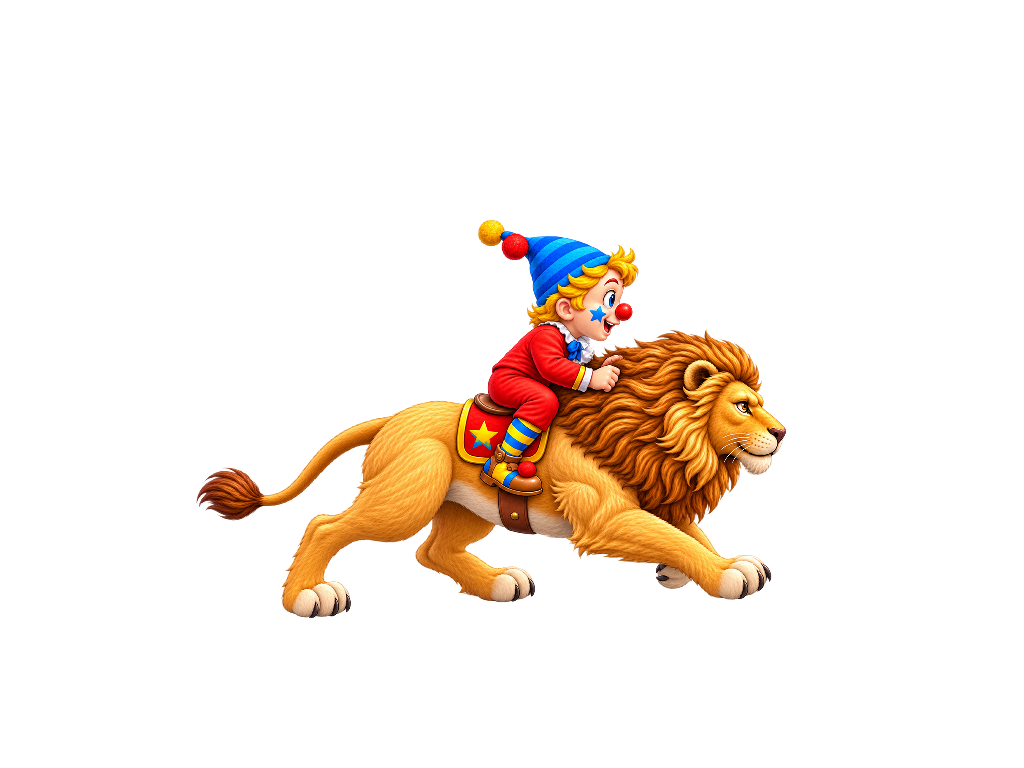
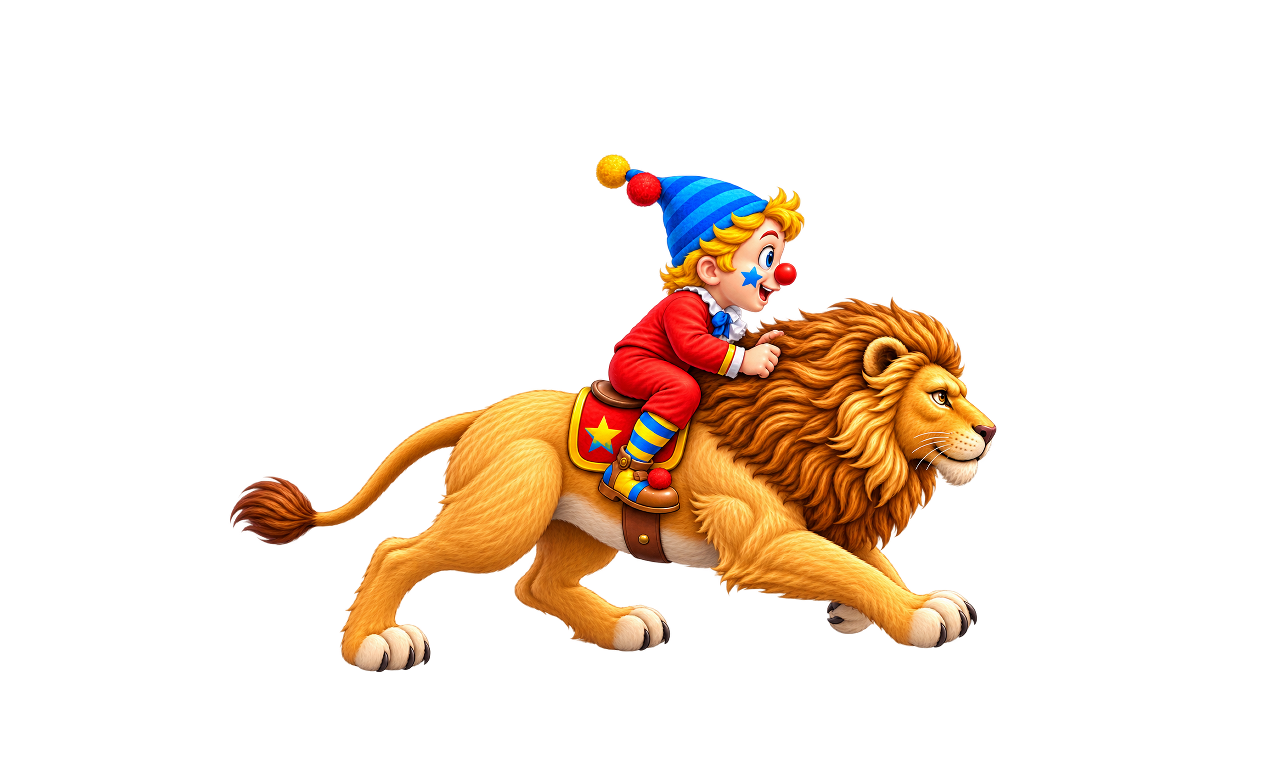
Enlarge Level 1 rider artwork by thirty percent

Changed region(s): [[0.1562, 0.1875, 0.7812, 0.875]]

diff --git a/tools/prepare_stage1_rider_production.py b/tools/prepare_stage1_rider_production.py
@@ -21,12 +21,12 @@ from PIL import Image, ImageDraw, ImageFilter
 ROOT = Path(__file__).resolve().parents[1]
 OUTPUT = ROOT / "assets"
 DIAGNOSTICS = ROOT / "docs/diagnostics/level1-rider-production"
-CANVAS = (1024, 768)
-GAMEPLAY_ANCHOR = (512, 640)
+CANVAS = (1280, 768)
+GAMEPLAY_ANCHOR = (640, 640)
 # Stable saddle/central-body point inside the production canvas. The runtime
 # samples every sprite at GAMEPLAY_ANCHOR; keeping this body point at a common
 # canvas location makes the body-to-gameplay-anchor vector identical in A/B/C.
-PRODUCTION_BODY_ANCHOR = (512, 438)
+PRODUCTION_BODY_ANCHOR = (640, 438)
 # Fixed LittleCMS sRGB profile bytes. Creating a fresh profile at runtime puts
 # the current time in its ICC header and makes otherwise identical PNG builds
 # hash differently.
@@ -49,7 +49,7 @@ POSES = {
         "source": ROOT / "run/run a 2.png",
[1 lines of base64/hex data omitted]
         "output": OUTPUT / "stage1-rider-run-a-hd.png",
-        "production_scale": 0.4220552832,
+        "production_scale": 0.54867186816,
         "rotation_degrees": 0.0,
         "source_anchor": (767.5, 582.5),
     },
@@ -57,7 +57,7 @@ POSES = {
         "source": ROOT / "run/Run b 2.png",
[1 lines of base64/hex data omitted]
         "output": OUTPUT / "stage1-rider-run-b-hd.png",
-        "production_scale": 0.4380942671,
+        "production_scale": 0.56952254723,
         "rotation_degrees": 0.0,
         "source_anchor": (777.5, 572.5),
     },
@@ -65,7 +65,7 @@ POSES = {
         "source": ROOT / "run/run c.png",
[1 lines of base64/hex data omitted]
         "output": OUTPUT / "stage1-rider-run-c-hd.png",
-        "production_scale": 0.4838703911,
+        "production_scale": 0.62903150843,
         "rotation_degrees": 0.0,
         "source_anchor": (850.0, 520.0),
     },
@@ -376,7 +376,7 @@ def main() -> int:
     OUTPUT.mkdir(parents=True, exist_ok=True)
     DIAGNOSTICS.mkdir(parents=True, exist_ok=True)
     raw_features, target_features, effective_scales = feature_measurements()
-    metadata = {"canvas": list(CANVAS), "gameplay_anchor": list(GAMEPLAY_ANCHOR), "production_body_anchor": list(PRODUCTION_BODY_ANCHOR), "body_to_gameplay_anchor_vector": [GAMEPLAY_ANCHOR[0] - PRODUCTION_BODY_ANCHOR[0], GAMEPLAY_ANCHOR[1] - PRODUCTION_BODY_ANCHOR[1]], "production_scale_rule": "approved independent offline identity-feature normalization; identical 1024x768 runtime rendering", "effective_source_to_canvas_scales": effective_scales, "alpha_representation": "straight/unassociated RGBA", "color_profile": "embedded sRGB ICC", "poses": {}}
+    metadata = {"canvas": list(CANVAS), "gameplay_anchor": list(GAMEPLAY_ANCHOR), "production_body_anchor": list(PRODUCTION_BODY_ANCHOR), "body_to_gameplay_anchor_vector": [GAMEPLAY_ANCHOR[0] - PRODUCTION_BODY_ANCHOR[0], GAMEPLAY_ANCHOR[1] - PRODUCTION_BODY_ANCHOR[1]], "production_scale_rule": "approved independent offline normalization multiplied by exactly 1.30; identical 1280x768 runtime canvas and pixel density", "effective_source_to_canvas_scales": effective_scales, "alpha_representation": "straight/unassociated RGBA", "color_profile": "embedded sRGB ICC", "poses": {}}
     prepared = {}
     for pose, specification in POSES.items():
         source = specification["source"]

diff --git a/src/main.cpp b/src/main.cpp
@@ -334,10 +334,17 @@ enum class Level1RiderState : std::uint8_t {
   RunC = 2,
 };
 
-// All accepted production poses use the same 1024x768 canvas and the same
+// All accepted production poses use the same 1280x768 canvas and the same
 // authoritative gameplay anchor. Airborne selects Run C without a distinct
 // image or anchor; only the ROM-derived jump trajectory moves it.
-constexpr std::array<float, 2> kLevel1RiderProductionAnchor{512.0F, 640.0F};
+constexpr std::array<float, 2> kLevel1RiderProductionCanvas{1280.0F, 768.0F};
+constexpr std::array<float, 2> kLevel1RiderProductionSourceAnchor{640.0F,
+                                                                  640.0F};
+// Keep the synchronized trace expressed in the established 1024-wide logical
+// production coordinate system. The larger canvas changes only transparent
+// source padding; its world-space anchor remains the same.
+constexpr std::array<float, 2> kLevel1RiderGameplayAnchor{512.0F, 640.0F};
+constexpr float kLevel1RiderProductionPixelToWorld = 118.8F / 1024.0F;
 
 constexpr const char* level1RiderStateName(Level1RiderState state) {
   switch (state) {
@@ -3791,14 +3798,19 @@ void drawLionAndRider(SDL_Renderer* renderer, float screenX, float groundY,
                                   ? riderRunB
                                   : riderRunC;
   if (riderTexture) {
-    constexpr float kRenderWidth = 118.8F;
-    constexpr float kRenderHeight = kRenderWidth * 768.0F / 1024.0F;
+    constexpr float kRenderWidth =
+        kLevel1RiderProductionCanvas[0] * kLevel1RiderProductionPixelToWorld;
+    constexpr float kRenderHeight =
+        kLevel1RiderProductionCanvas[1] * kLevel1RiderProductionPixelToWorld;
     const float sourceAnchorX = facingRight
-        ? kLevel1RiderProductionAnchor[0]
-        : 1024.0F - kLevel1RiderProductionAnchor[0];
-    const float visualAnchorX = sourceAnchorX / 1024.0F * kRenderWidth;
+        ? kLevel1RiderProductionSourceAnchor[0]
+        : kLevel1RiderProductionCanvas[0] -
+              kLevel1RiderProductionSourceAnchor[0];
+    const float visualAnchorX =
+        sourceAnchorX * kLevel1RiderProductionPixelToWorld;
     const float visualAnchorY =
-        kLevel1RiderProductionAnchor[1] / 768.0F * kRenderHeight;
+        kLevel1RiderProductionSourceAnchor[1] *
+        kLevel1RiderProductionPixelToWorld;
     const SDL_FRect destination{screenX + 10.0F - visualAnchorX,
                                 groundY - visualAnchorY,
                                 kRenderWidth, kRenderHeight};
@@ -5653,7 +5665,7 @@ int main(int argc, char** argv) {
             game.player.grounded ? game.level1RiderState
                                  : Level1RiderState::RunC;
         const auto riderCodes = level1RiderCodes(visibleRiderState);
-        const auto& riderAnchor = kLevel1RiderProductionAnchor;
+        const auto& riderAnchor = kLevel1RiderGameplayAnchor;
         movementTrace << movementTraceFrame << ',' << (traceLeft ? 1 : 0)
                       << ',' << (traceRight ? 1 : 0) << ','
                       << (traceJump ? 1 : 0) << ',' << std::fixed

diff --git a/docs/level1-original-c-production-test.md b/docs/level1-original-c-production-test.md
@@ -2,16 +2,20 @@
 
 ## Result
 
-**Visual production test: PASS.**
+**30%-larger visual production test: PASS.**
 
 The decision is based on actual native renderer captures, not solely on feature
 measurements or synthetic sprite previews.
 
-The production set is:
+The production set is now exactly 1.30 times the previously accepted artwork
+size:
 
-- A: `run/run a 2.png` at offline scale `0.4220552832`
-- B: `run/Run b 2.png` at offline scale `0.4380942671`
-- C and airborne: original `run/run c.png` at offline scale `0.4838703911`
+- A: `run/run a 2.png` at offline scale `0.54867186816`
+- B: `run/Run b 2.png` at offline scale `0.56952254723`
+- C and airborne: original `run/run c.png` at offline scale `0.62903150843`
+
+These are respectively `0.4220552832 * 1.30`, `0.4380942671 * 1.30`
+and `0.4838703911 * 1.30`. No pose-specific runtime scaling is used.
 
 No C2-C8 source participates in this production test.
 
@@ -23,14 +27,25 @@ The supplied masters remain unmodified. The prepared copies are:
 - `assets/stage1-rider-run-b-hd.png`
 - `assets/stage1-rider-run-c-hd.png`
 
-All are straight-alpha sRGB RGBA PNGs on identical 1024x768 canvases. The
+All are straight-alpha sRGB RGBA PNGs on identical 1280x768 canvases. The
 offline transforms use zero rotation and independently apply only the approved
 uniform scale and translation.
 
-The stable saddle/central-body reference is placed at `(512,438)` in every
-production canvas. The unchanged renderer gameplay anchor remains `(512,640)`,
-so the common body-to-gameplay-anchor vector is `(0,202)` for A/B/C. Feet,
-paws, tail and total bounds do not define the anchor.
+The stable saddle/central-body reference is placed at `(640,438)` in every
+production canvas. The source-canvas anchor is `(640,640)`, maintaining the
+common body-to-anchor vector `(0,202)` for A/B/C. The renderer retains the
+same source-pixel-to-world density used by the accepted 1024-wide production
+assets, so the enlarged transparent canvas does not move the character in
+world space. The synchronized logical gameplay anchor remains `(512,640)`.
+Feet, paws, tail and total bounds do not define the anchor.
+
+The nontransparent bounds are:
+
+- A: `(228,153)-(998,673)`
+- B: `(203,148)-(1022,693)`
+- C: `(127,143)-(1043,663)`
+
+No pose touches any canvas edge; the complete extended Run C is preserved.
 
 ## Original C alpha cleanup
 
@@ -63,9 +78,9 @@ The pre-existing renderer mapping remains unchanged:
 - state C -> production original C
 - airborne -> the exact same production original C
 
-The runtime renderer applies one identical source canvas, destination rectangle
-and gameplay anchor to all three. There is no pose-specific runtime scale or
-airborne correction.
+The runtime renderer applies one identical 1280x768 source canvas, one common
+source-pixel-to-world density and one source anchor to all three. There is no
+pose-specific runtime scale or airborne correction.
 
 ## Gameplay lock verification
 
@@ -96,7 +111,7 @@ Machine-readable evidence:
 
 ## Visual decision from actual gameplay
 
-Actual, unscaled renderer-pixel crops:
+Actual, unscaled renderer-pixel crops from the 30%-larger build:
 
 `docs/diagnostics/level1-rider-production/actual-runtime-rider-pixel-crops.jpg`
 
@@ -106,6 +121,7 @@ Full actual gameplay frames at their native 960x1280 backing-store size:
 
 Observed result:
 
+- every pose is exactly 1.30 times its previously accepted production size;
 - A -> B reads as the same-sized lion gathering its stride;
 - B -> C reads as the same-sized central character mass entering an extended
   horizontal leap, not as a medium-to-giant resize;
@@ -118,6 +134,8 @@ Observed result:
 - the shared central-body anchor does not visibly teleport;
 - no original-C glow/background contamination is visible.
 
-This pass changes only production copies and the deterministic preparation and
-diagnostic tooling. No gameplay, physics, collision, camera, state timing,
-scoring, hoop behavior, course data or Events 2-4 behavior was changed.
+The larger common source canvas required a canvas-aware renderer rectangle and
+source anchor, while preserving the prior source-pixel-to-world scale. The
+synchronized diagnostic reports all 120 comparison rows matching. No gameplay,
+physics, collision, camera, state timing, scoring, hoop behavior, course data
+or Events 2-4 behavior was changed.
